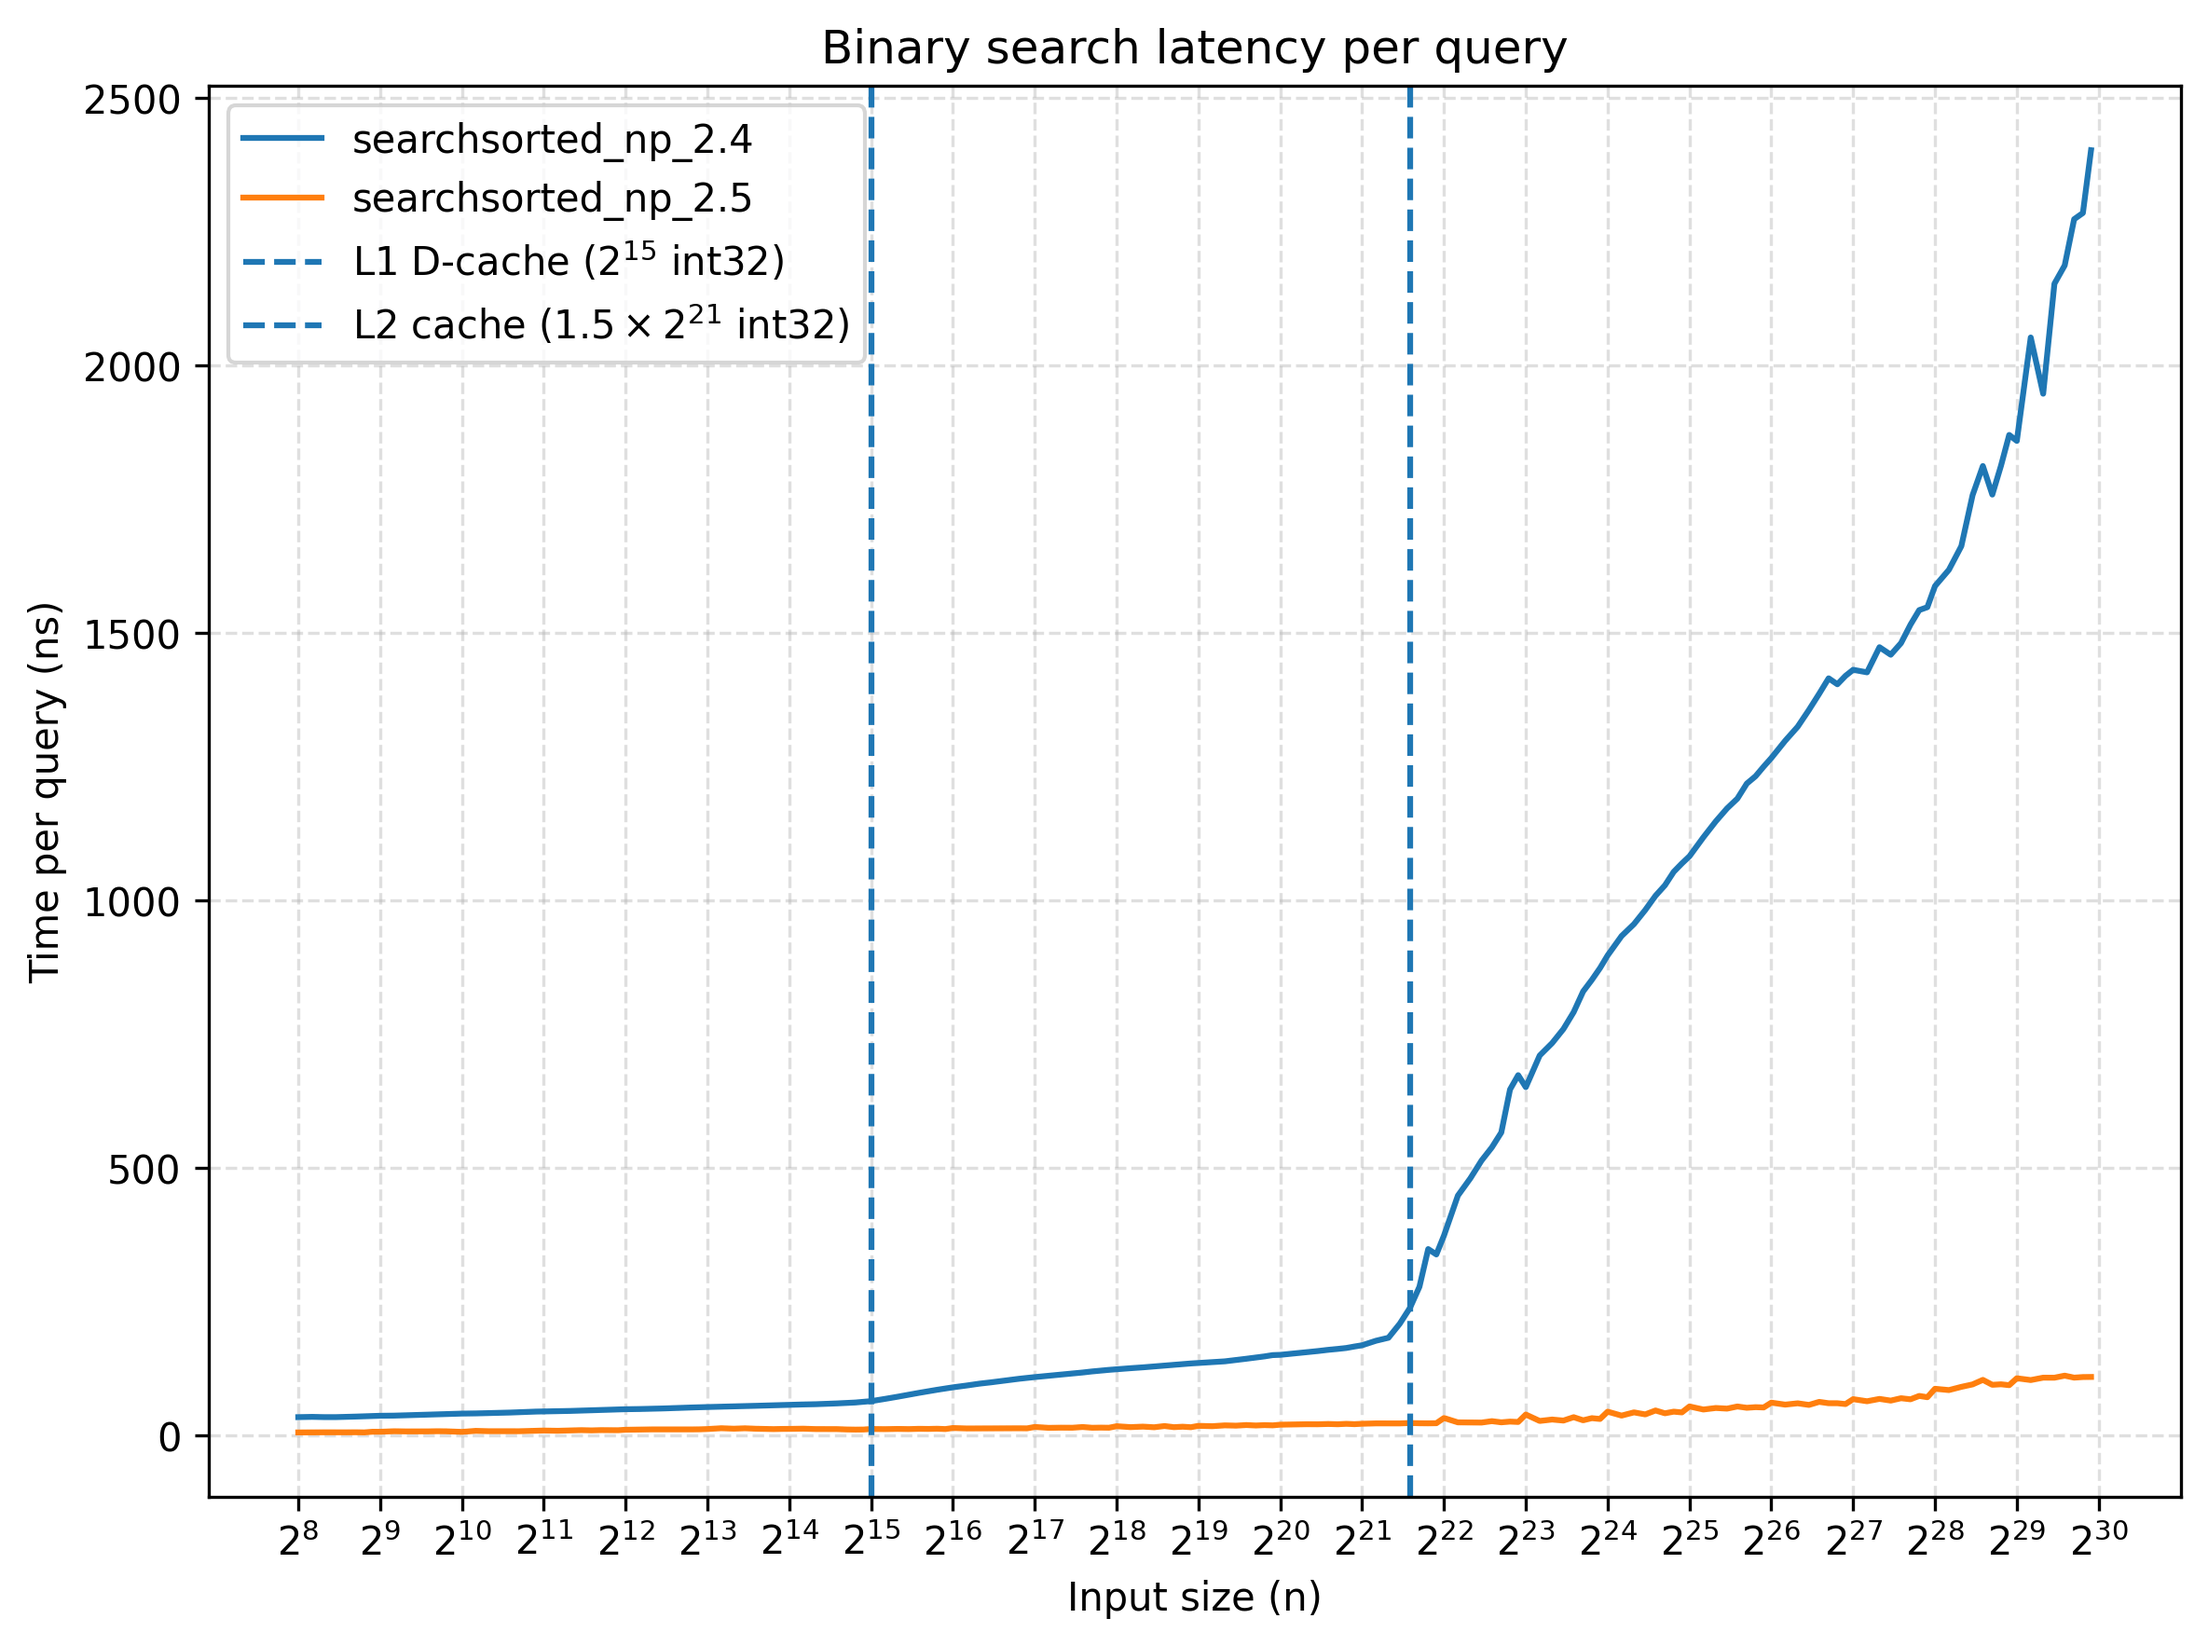
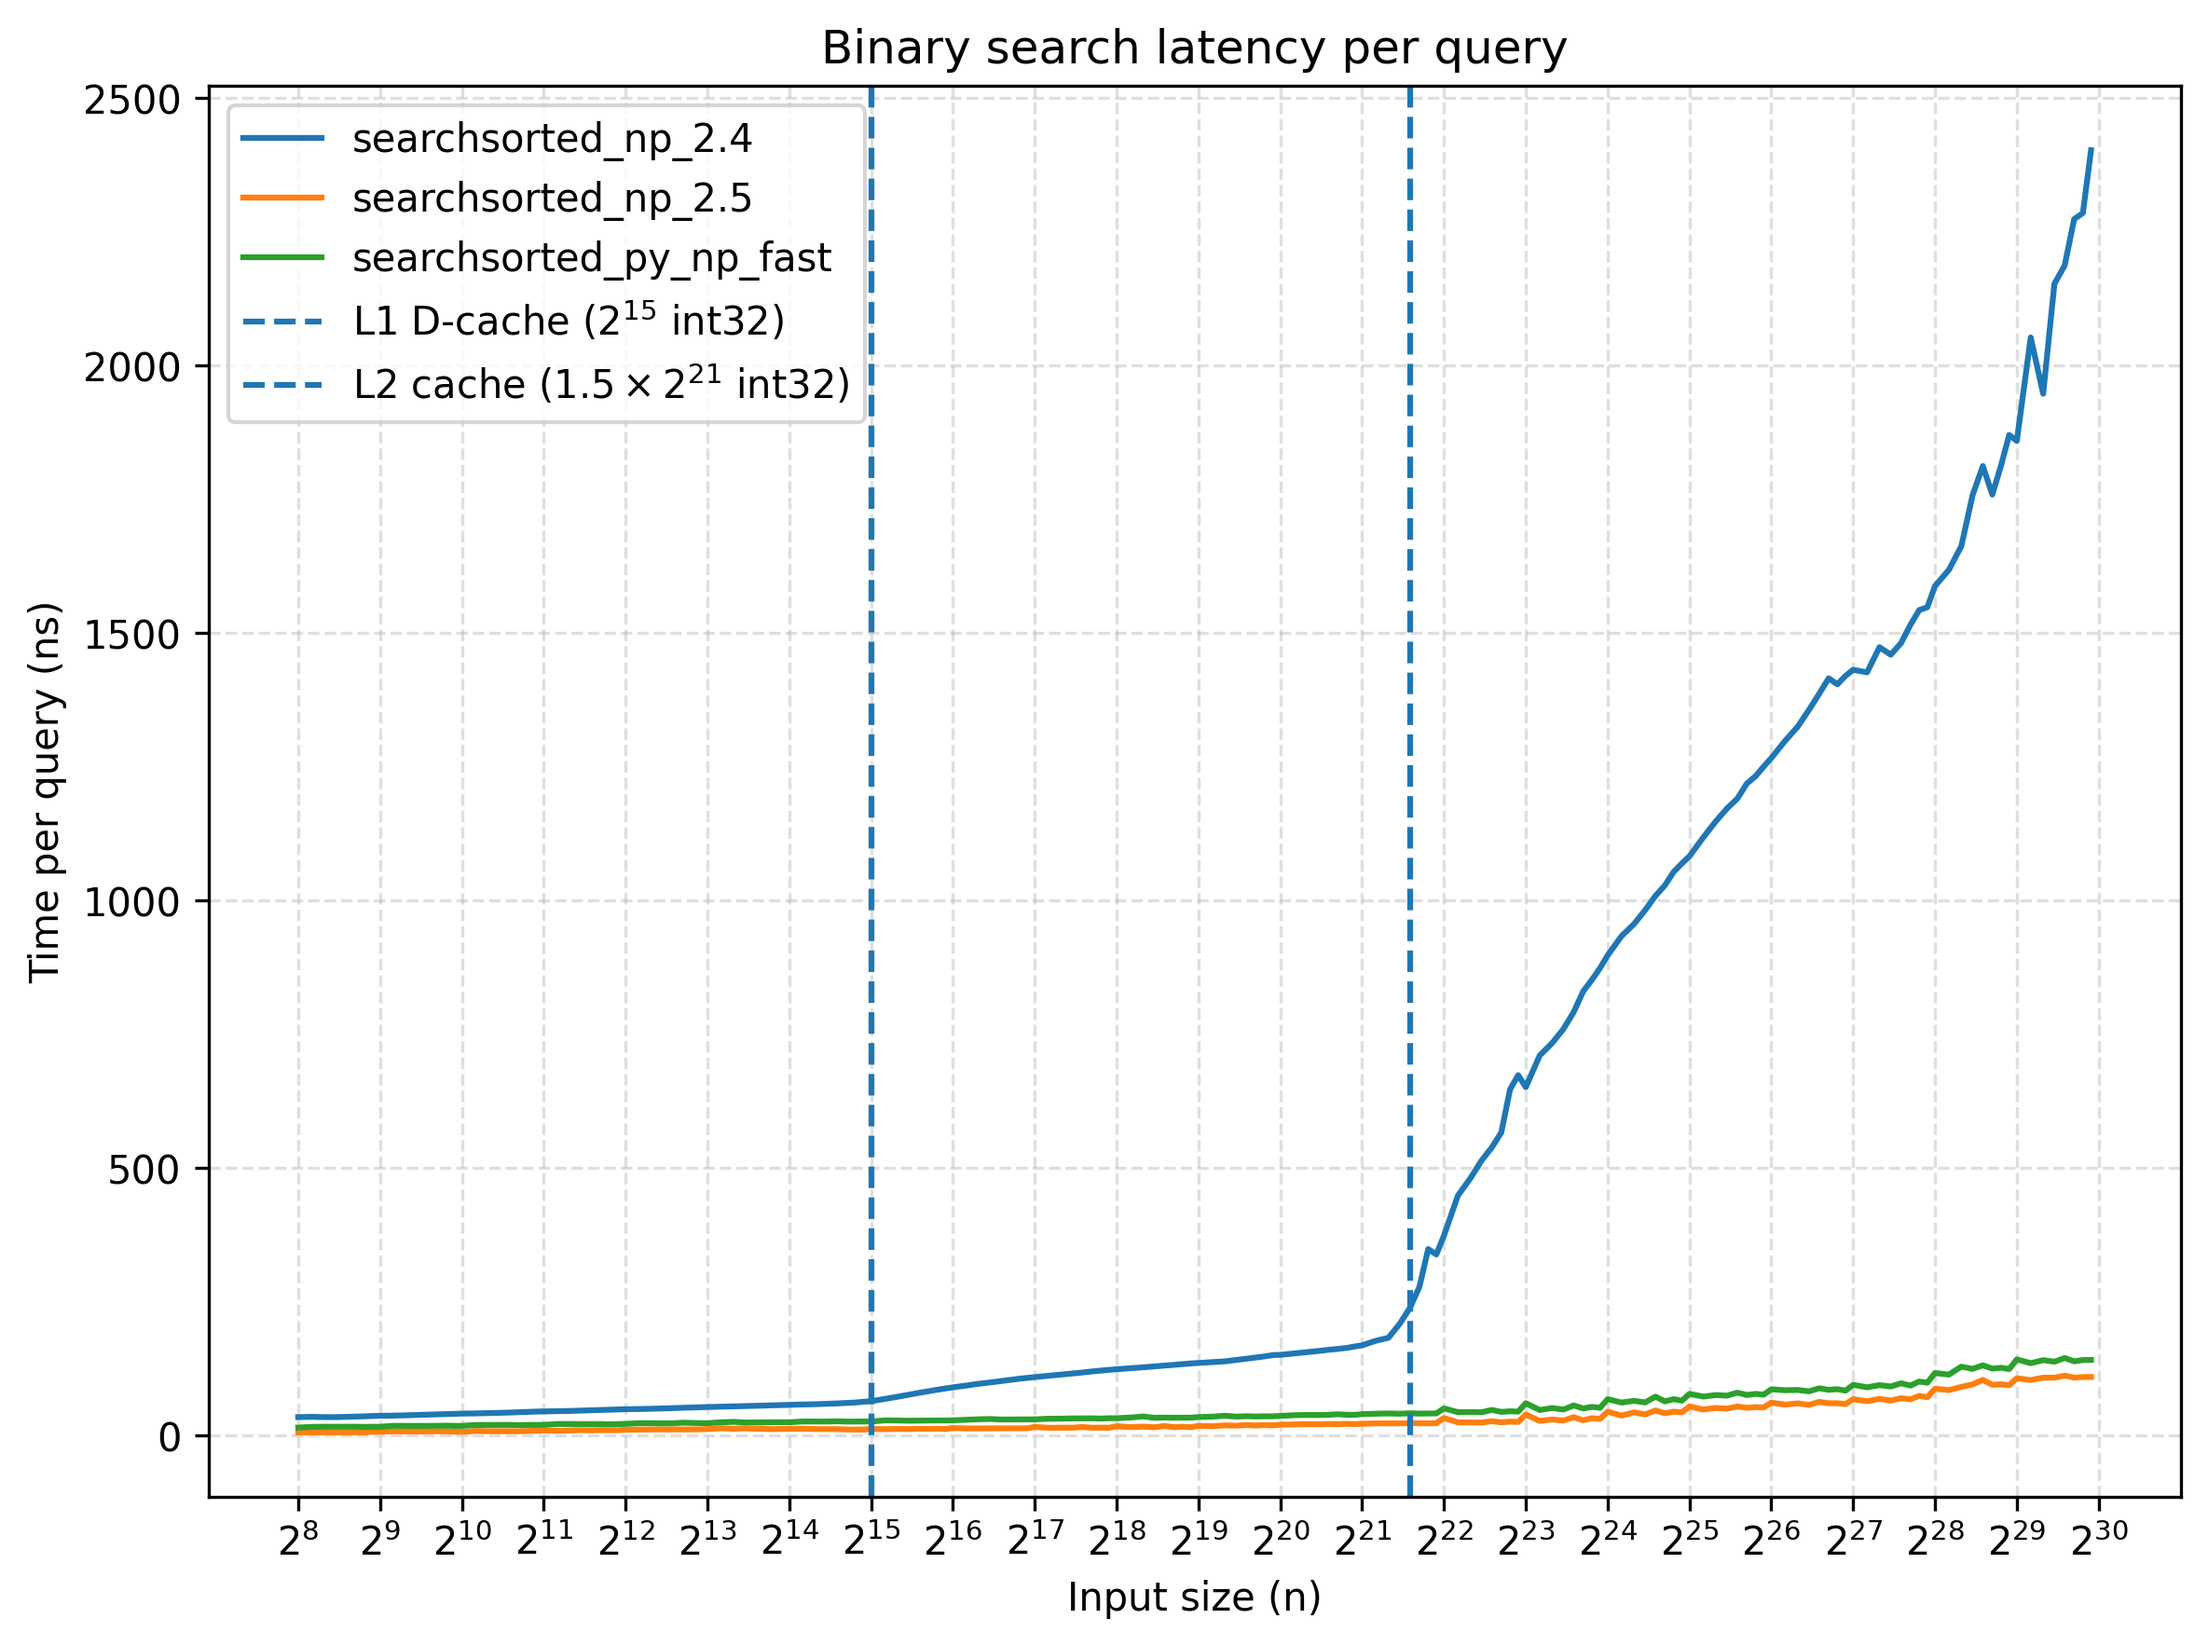
Fix text + picture

diff --git a/content/posts/numpy/searchsorted/index.md b/content/posts/numpy/searchsorted/index.md
@@ -48,7 +48,7 @@ def searchsorted_py(a, xs):
 
 ![](images/figure1-fs8.png)
 
-Running time grows logarithmically as the input size grows (note the log scale of X-axis).
+Running time per query grows logarithmically as the input size grows (note the log scale of X-axis).
 
 For benchmarking, we generated two random arrays of uniformly distributed `np.int32` integers. The elements being searched had a fixed length of 10,000. Each benchmark was repeated 50 times, and we report the minimum execution time.
 
@@ -330,11 +330,11 @@ Note that we optimized this implementation by unrolling the first iteration of t
 
 This implementation was ported directly into NumPy as part of PR [#30517](https://github.com/numpy/numpy/pull/30517), which was included as part of [2.5 release](https://numpy.org/devdocs/release/2.5.0-notes.html#improved-performance-of-numpy-searchsorted).
 
-Now let's compare both 2.4 and 2.5 releases:
+Now let's do a final comparison between both 2.4 and 2.5 releases and our vectorized Python implementation:
 
 ![](images/figure7-fs8.png)
 
-Up to 25x faster!
+The native 2.5 version is slightly faster than the vectorized Python one, which is up to 25 times faster than 2.4!
 
 ### Conclusion
 
